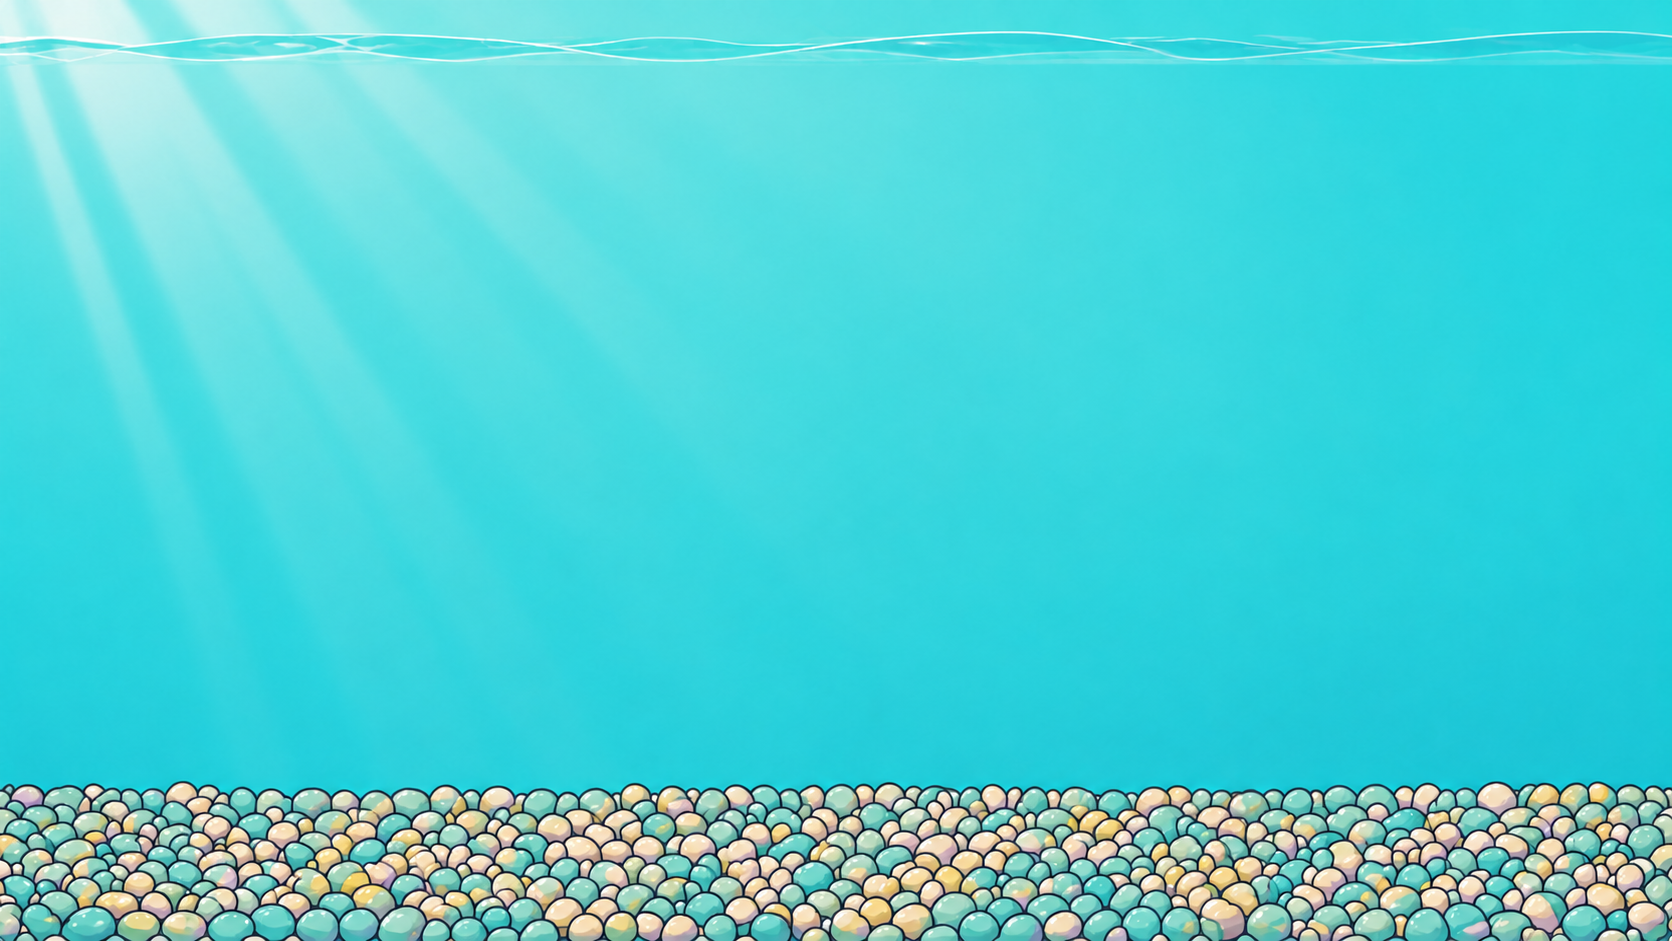
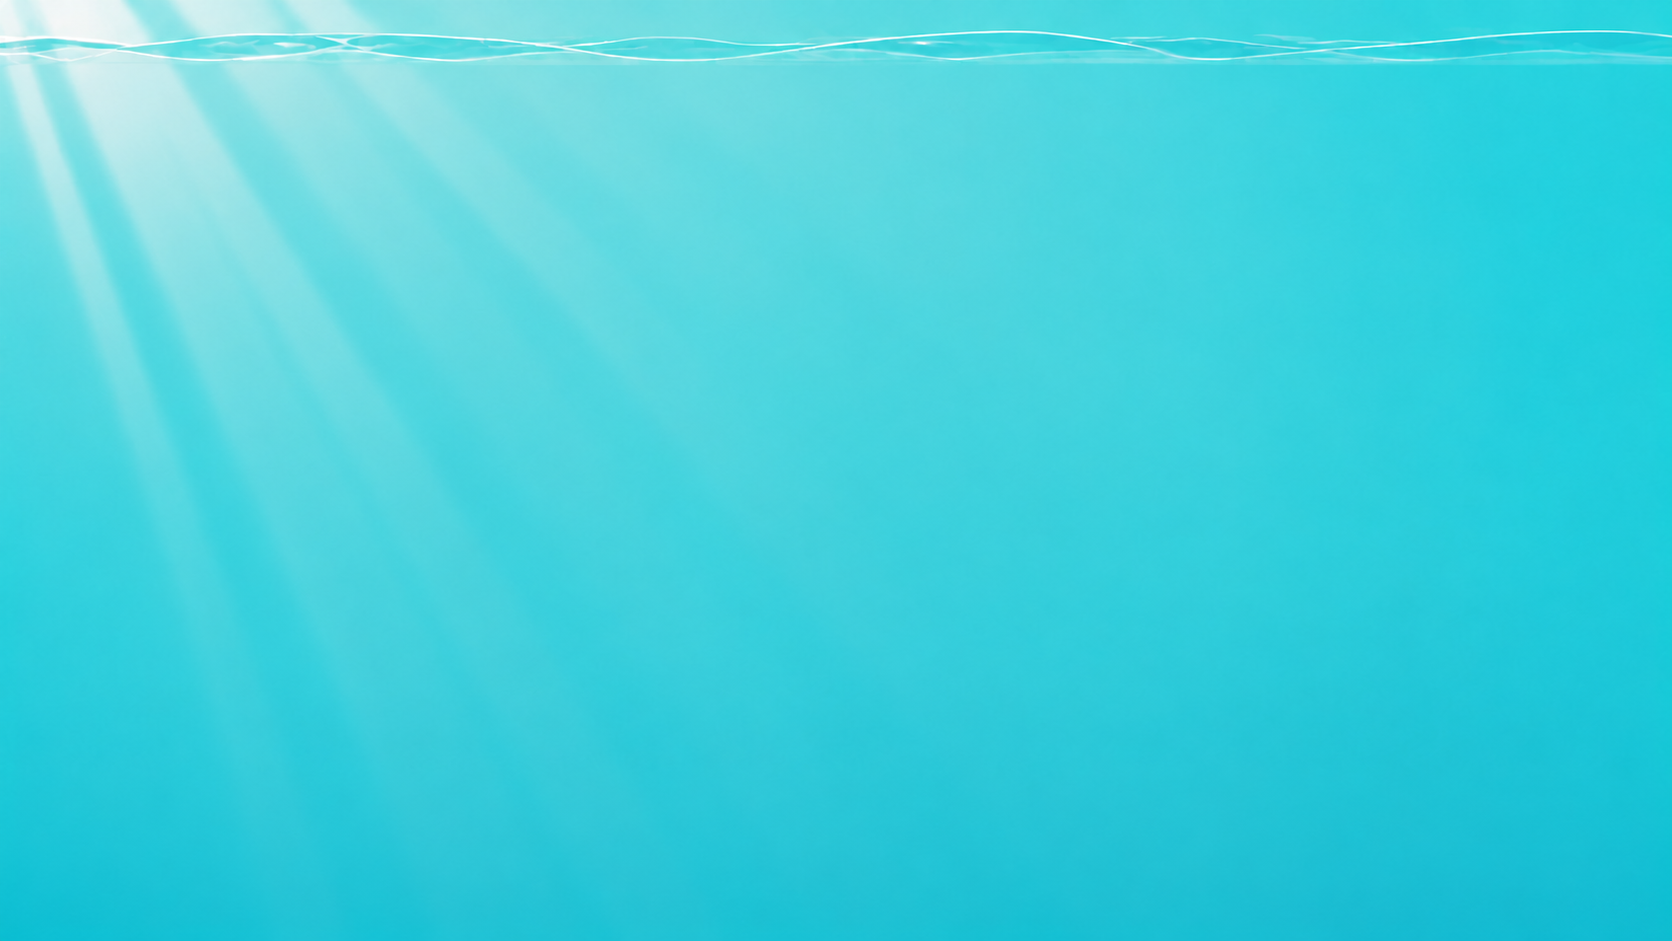
Rebuild aquarium substrate art layers

diff --git a/src/style.css b/src/style.css
@@ -138,4 +138,4 @@ body{background:radial-gradient(circle at 48% 15%,#fffdf4 0 24%,#f8eed8 70%,#ead
 .mission-complete{position:fixed;z-index:150;inset:0;display:grid;place-items:center;pointer-events:none;background:radial-gradient(circle,#fff8cf55 0 12%,transparent 45%);animation:missionShade 2.7s ease both}.mission-complete section{position:relative;z-index:2;display:grid;gap:8px;width:min(390px,calc(100vw - 34px));padding:25px 28px;text-align:center;border:4px solid #76beae;border-radius:27px;background:#fff8e9;color:#315b69;box-shadow:0 22px 65px #23485d66,inset 0 0 0 2px #fff;animation:missionCard 2.7s cubic-bezier(.2,.8,.2,1) both}.mission-complete small{color:#eb806f;font-size:11px;font-weight:700;letter-spacing:.2em}.mission-complete b{font:700 23px 'Shippori Mincho';line-height:1.4}.mission-complete section>span{justify-self:center;padding:8px 18px;border-radius:99px;background:#f8d878;color:#65542c}.mission-complete section strong{font-size:20px}.mission-burst{position:absolute;left:50%;top:50%;width:1px;height:1px}.mission-burst:before,.mission-burst:after{content:'';position:absolute;inset:-95px;border:5px solid #f8d878;border-radius:50%;animation:missionRing 1.1s ease-out both}.mission-burst:after{inset:-135px;border-color:#8fdac588;animation-delay:.12s}.mission-burst i{position:absolute;left:-5px;top:-5px;width:10px;height:16px;border-radius:3px;background:var(--color);transform:rotate(var(--angle)) translateY(-55px);animation:missionConfetti 1.25s ease-out var(--delay) both}@keyframes missionCard{0%{opacity:0;transform:scale(.55) translateY(20px)}15%{opacity:1;transform:scale(1.08) translateY(0)}24%,78%{transform:scale(1);opacity:1}100%{transform:scale(.95) translateY(-12px);opacity:0}}@keyframes missionRing{from{scale:.3;opacity:1}to{scale:1.7;opacity:0}}@keyframes missionConfetti{0%{opacity:0;transform:rotate(var(--angle)) translateY(-35px) rotate(0)}15%{opacity:1}100%{opacity:0;transform:rotate(var(--angle)) translateY(-230px) rotate(540deg)}}@keyframes missionShade{0%,100%{opacity:0}12%,82%{opacity:1}}
 .help-tip{position:relative;outline:none}.help-tip:after{content:attr(data-tooltip);position:absolute;z-index:90;left:50%;top:calc(100% + 8px);width:210px;padding:8px 10px;border:2px solid #76beae;border-radius:10px;background:#fff8e9;color:#315b69;box-shadow:0 8px 20px #23485d44;font-size:10px;font-weight:600;line-height:1.55;text-align:left;white-space:normal;pointer-events:none;opacity:0;visibility:hidden;transform:translate(-50%,-4px);transition:opacity .16s ease,transform .16s ease,visibility 0s linear .16s}.help-tip:hover:after,.help-tip:focus-visible:after,.help-tip:focus-within:after{opacity:1;visibility:visible;transform:translate(-50%,0);transition-delay:.18s}.resources>.help-tip:first-child:after{left:0;transform:translate(0,-4px)}.resources>.help-tip:first-child:hover:after,.resources>.help-tip:first-child:focus-visible:after{transform:translate(0,0)}.resources>.help-tip:nth-child(2):after{left:auto;right:0;transform:translate(0,-4px)}.resources>.help-tip:nth-child(2):hover:after,.resources>.help-tip:nth-child(2):focus-visible:after{transform:translate(0,0)}
 .food-flight.food-protein{background:#ffb45f}.food-flight.food-mineral{background:#70d9dc}.swimmer:has(img[src*="solarcrown"]),.swimmer:has(img[src*="grovewhale"]),.swimmer:has(img[src*="unicornloop"]){width:clamp(205px,20vw,295px);height:190px}.swimmer:has(img[src*="solarcrown"]) img,.swimmer:has(img[src*="grovewhale"]) img,.swimmer:has(img[src*="unicornloop"]) img{height:160px}.swimmer:has(img[src*="solarcrown"]) .fish-name,.swimmer:has(img[src*="grovewhale"]) .fish-name,.swimmer:has(img[src*="unicornloop"]) .fish-name{top:157px}
-#substrate-overlay{position:absolute;z-index:0;left:0;right:0;bottom:0;height:16.5%;pointer-events:none;border-top:2px solid #fff8;box-shadow:inset 0 5px 9px #174b5140;background-color:#ead7aa;transition:background .35s ease}.substrate-swatch{display:block;width:42px;height:32px;flex:0 0 42px;border:2px solid #fff;border-radius:9px;box-shadow:0 1px 3px #315b6955}.substrate-shop button.selected{border-color:#ef907b;background:#fff3e9}.substrate-pastel,#camera-stage[data-substrate="pastel"] #substrate-overlay{background-color:#ead7aa;background-image:radial-gradient(ellipse at 12px 9px,#82c8bc 0 7px,#559b91 8px 9px,transparent 10px),radial-gradient(ellipse at 31px 18px,#f2c3b1 0 8px,#d79886 9px 10px,transparent 11px),radial-gradient(ellipse at 18px 28px,#f3dfad 0 8px,#c9aa72 9px 10px,transparent 11px);background-size:43px 36px}.substrate-whiteSand,#camera-stage[data-substrate="whiteSand"] #substrate-overlay{background-color:#f2e7c9;background-image:radial-gradient(circle,#fffdf1 0 2px,transparent 2.5px),radial-gradient(circle,#d9caa8 0 1.5px,transparent 2px);background-position:0 0,7px 9px;background-size:12px 12px,15px 15px}.substrate-riverPebble,#camera-stage[data-substrate="riverPebble"] #substrate-overlay{background-color:#b99b73;background-image:radial-gradient(ellipse at 12px 10px,#719b88 0 7px,#4f7567 8px 9px,transparent 10px),radial-gradient(ellipse at 34px 19px,#c9ac7c 0 9px,#947650 10px 11px,transparent 12px),radial-gradient(ellipse at 20px 31px,#8c8172 0 7px,#625b51 8px 9px,transparent 10px);background-size:47px 39px}.substrate-blackGravel,#camera-stage[data-substrate="blackGravel"] #substrate-overlay{background-color:#273b45;background-image:radial-gradient(ellipse at 13px 10px,#49636b 0 8px,#1c3039 9px 10px,transparent 11px),radial-gradient(ellipse at 35px 22px,#344e59 0 9px,#182c35 10px 11px,transparent 12px),radial-gradient(ellipse at 17px 34px,#5a6868 0 7px,#283b41 8px 9px,transparent 10px);background-size:48px 41px}
+#substrate-overlay{position:absolute;z-index:0;left:0;right:0;bottom:0;height:19%;pointer-events:none;background-position:center bottom;background-repeat:no-repeat;background-size:100% 100%;filter:drop-shadow(0 -2px 2px #174b5126);transition:background-image .25s ease}.substrate-swatch{display:block;width:42px;height:32px;flex:0 0 42px;border:2px solid #fff;border-radius:9px;background-position:center bottom;background-repeat:no-repeat;background-size:cover;box-shadow:0 1px 3px #315b6955}.substrate-shop button.selected{border-color:#ef907b;background:#fff3e9}.substrate-pastel,#camera-stage[data-substrate="pastel"] #substrate-overlay{background-image:url('/assets/substrates/pastel-pebbles.png')}.substrate-whiteSand,#camera-stage[data-substrate="whiteSand"] #substrate-overlay{background-image:url('/assets/substrates/white-sand.png')}.substrate-riverPebble,#camera-stage[data-substrate="riverPebble"] #substrate-overlay{background-image:url('/assets/substrates/river-pebbles.png')}.substrate-blackGravel,#camera-stage[data-substrate="blackGravel"] #substrate-overlay{background-image:url('/assets/substrates/black-gravel.png')}
